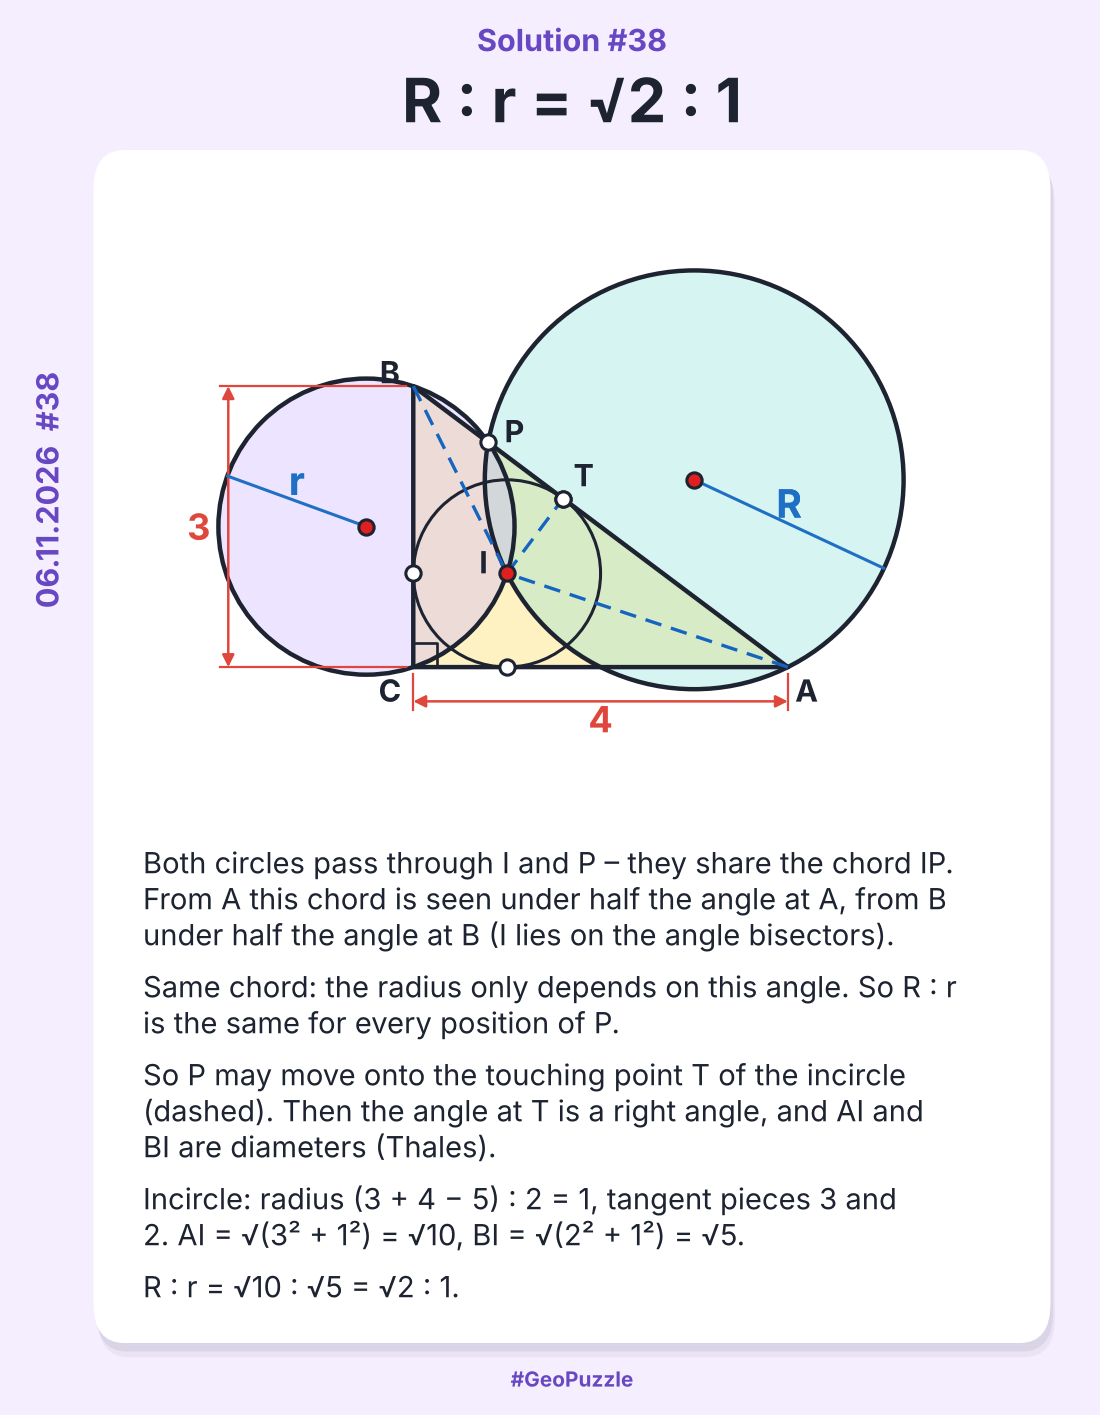
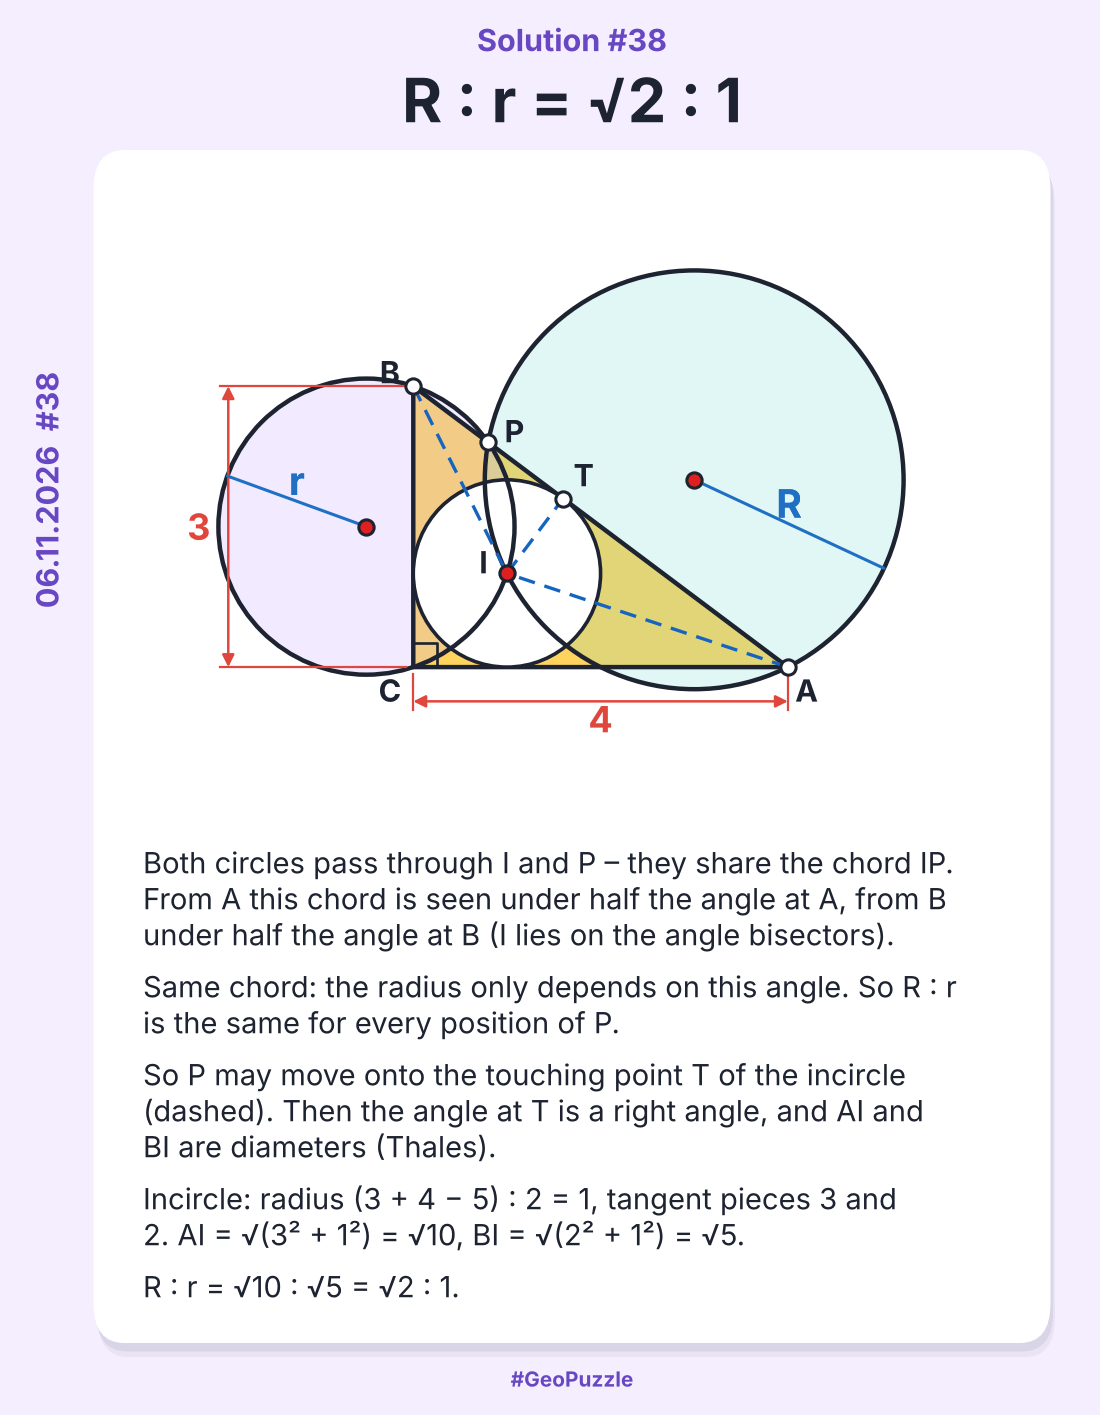
Serie 003 nach Kaltlesen überarbeitet (Marken, Farben, Berührpunkte)
Claude-Session: https://claude.ai/code/session_0162FGHhki4SbxiLRQK3zCFd

Changed region(s): [[0.3709, 0.2488, 0.7109, 0.4975], [0.7109, 0.4664, 0.7418, 0.4975]]

diff --git a/georaetsel/003/nr-38.py b/georaetsel/003/nr-38.py
@@ -38,13 +38,12 @@ def pruefen():
 def figur(ax, loesung=False):
     P, (m1, R1), (m2, R2) = bau()
     from matplotlib.patches import Circle
-    flaeche(ax, [A, B, C], HELLGELB, kontur=False)
-    ax.add_patch(Circle(m1, R1, facecolor=TUERKIS, alpha=0.30, edgecolor="none", zorder=2))
-    ax.add_patch(Circle(m2, R2, facecolor=VIOLETT, alpha=0.35, edgecolor="none", zorder=2))
+    flaeche(ax, [A, B, C], GELB, kontur=False)
+    ax.add_patch(Circle(m1, R1, facecolor=TUERKIS, alpha=0.22, edgecolor="none", zorder=2))
+    ax.add_patch(Circle(m2, R2, facecolor=VIOLETT, alpha=0.25, edgecolor="none", zorder=2))
     kreis(ax, m1, R1, z=4); kreis(ax, m2, R2, z=4)
     zug(ax, [A, B, C])
-    kreis(ax, I, RI, lw=2.2, z=4)
-    for a_, b_ in ((A, B), (B, C), (C, A)): punkt(ax, fuss(I, a_, b_))
+    kreis(ax, I, RI, lw=2.6, farbe=WEISS, z=3)
     rechter_winkel(ax, C, A, B, groesse=3.5)
     masslinie(ax, C, A, "4", seite=-1, abstand=5)
     masslinie(ax, B, C, "3", seite=-1, abstand=27)
@@ -52,7 +51,7 @@ def figur(ax, loesung=False):
         e = (m[0] + rr*math.cos(math.radians(w)), m[1] + rr*math.sin(math.radians(w)))
         linie(ax, m, e, lw=2.2, farbe=GESUCHT, z=6); punkt(ax, m, "rot")
         zahl(ax, ((m[0]+e[0])/2 + 0.0, (m[1]+e[1])/2 + 0.22), t, farbe=GESUCHT, groesse=28)
-    punkt(ax, I, "rot"); punkt(ax, P)
+    punkt(ax, I, "rot"); punkt(ax, P); punkt(ax, A); punkt(ax, B)
     if loesung:
         T = fuss(I, A, B)
         kreis_r = RI

diff --git a/georaetsel/003/nr-35.py b/georaetsel/003/nr-35.py
@@ -40,13 +40,13 @@ def pruefen():
 def figur(ax, loesung=False):
     A, B, O, U, P, Q, S1, T, S2 = bau()
     halb = kreisflaeche(O, R) & __import__("shapely.geometry", fromlist=["box"]).box(-R, 0, R, R)
-    bereich(ax, halb, HELLGELB)
     flaeche(ax, [A, P, Q, S1], HELLBLAU, kontur=False)
     flaeche(ax, [P, B, S2, T], VIOLETT, kontur=False)
     flaeche(ax, [Q, T, U], GELB, kontur=False, z=2)
     bogen(ax, O, R, 0, 180); linie(ax, A, B)
     zug(ax, [A, P, Q, S1]); zug(ax, [P, B, S2, T]); zug(ax, [Q, T, U])
     linie(ax, O, U, lw=2.4); rechter_winkel(ax, O, B, U, groesse=3)
+    rechter_winkel(ax, S1, A, Q, groesse=3); rechter_winkel(ax, S2, B, T, groesse=3)
     punkt(ax, O, "rot")
     for p in (A, B, P, Q, T, U): punkt(ax, p)
     masslinie(ax, A, B, "6", seite=-1, abstand=5)

diff --git a/georaetsel/003/nr-37.py b/georaetsel/003/nr-37.py
@@ -48,7 +48,9 @@ def figur(ax, loesung=False):
     bereich(ax, gelb.intersection(blau), HELLBLAU, schraffur="/", schraffur_farbe=GOLD)
     kreis(ax, (0, 0), R)
     zug(ax, [A, B, C]); zug(ax, [B, X, Y, C]); linie(ax, P, B); linie(ax, P, C); linie(ax, P, A, lw=2.4)
-    strich(ax, P, A, t=0.3); strich(ax, P, X, t=0.72); strich(ax, P, Y, t=0.72)
+    strich(ax, P, A, t=0.14); strich(ax, P, X, t=0.72); strich(ax, P, Y, t=0.72)
+    strich(ax, A, B, 2, t=0.4); strich(ax, B, C, 2, t=0.22); strich(ax, C, A, 2, t=0.6)
+    zug(ax, [B, X, Y, C], lw=LW*1.25)
     for p in (A, B, C, P, X, Y): punkt(ax, p)
     if loesung:
         hilfslinie(ax, A, X)

diff --git a/georaetsel/003/nr-36.py b/georaetsel/003/nr-36.py
@@ -50,6 +50,7 @@ def figur(ax, loesung=False):
     for p, q in ((A, B), (B, C), (C, D), (D, A)): strich(ax, p, q)
     winkel(ax, A, B, D, "60°", r=9, groesse=20, text_abstand=1.7)
     punkt(ax, O, "rot")
+    linie(ax, O, P, lw=2.0); rechter_winkel(ax, P, O, X, groesse=2.6)
     for p in (P, X, Y): punkt(ax, p)
     if loesung:
         T1 = fuss(O, A, B); T2 = fuss(O, A, D)
